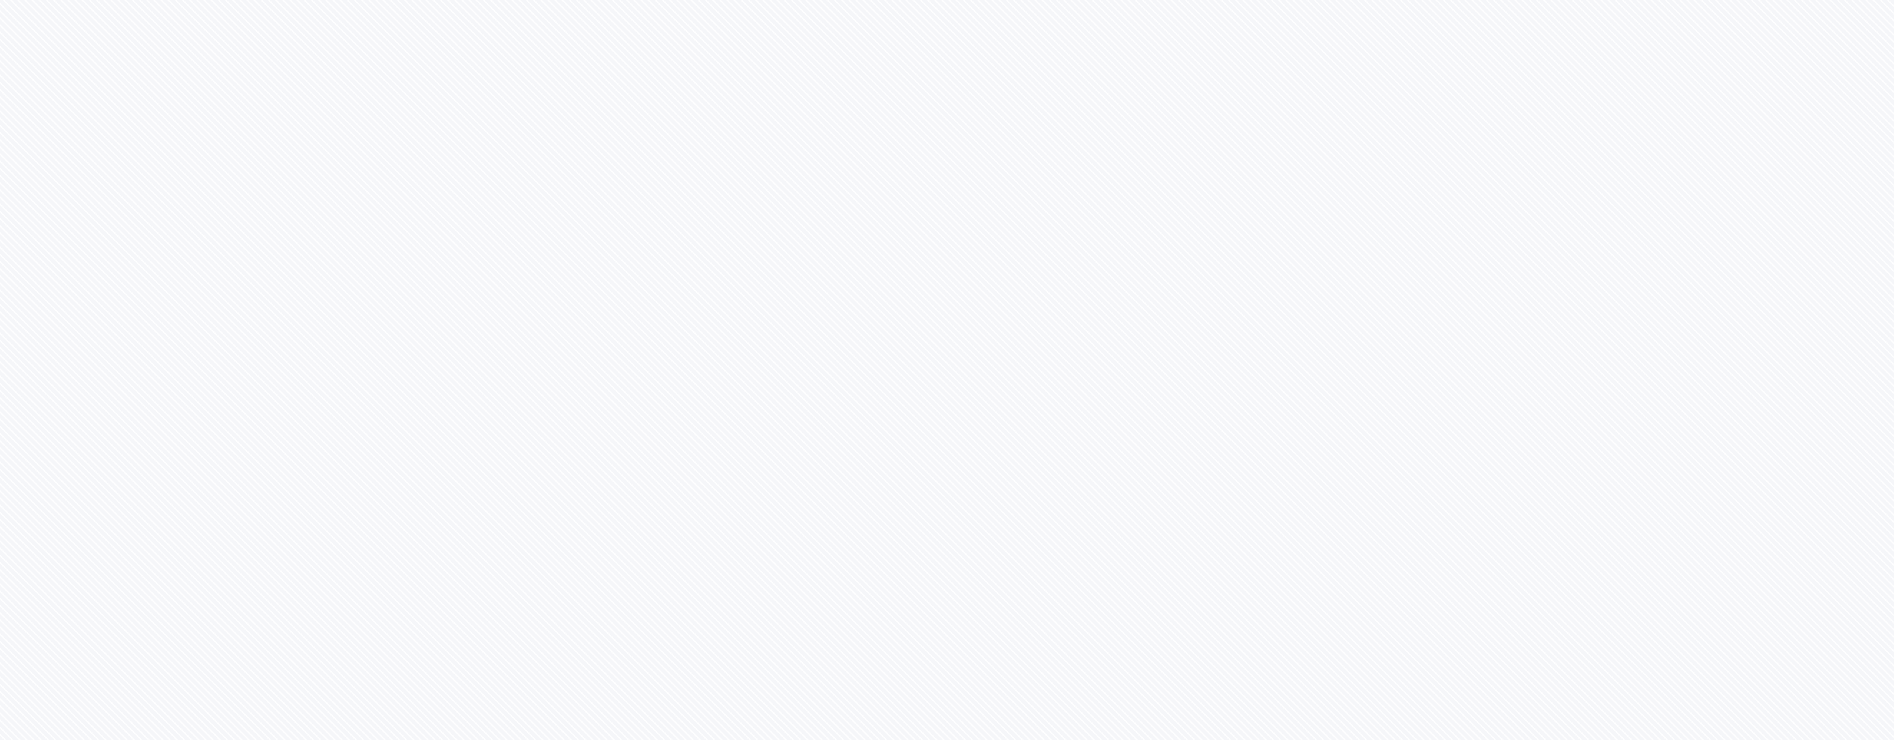
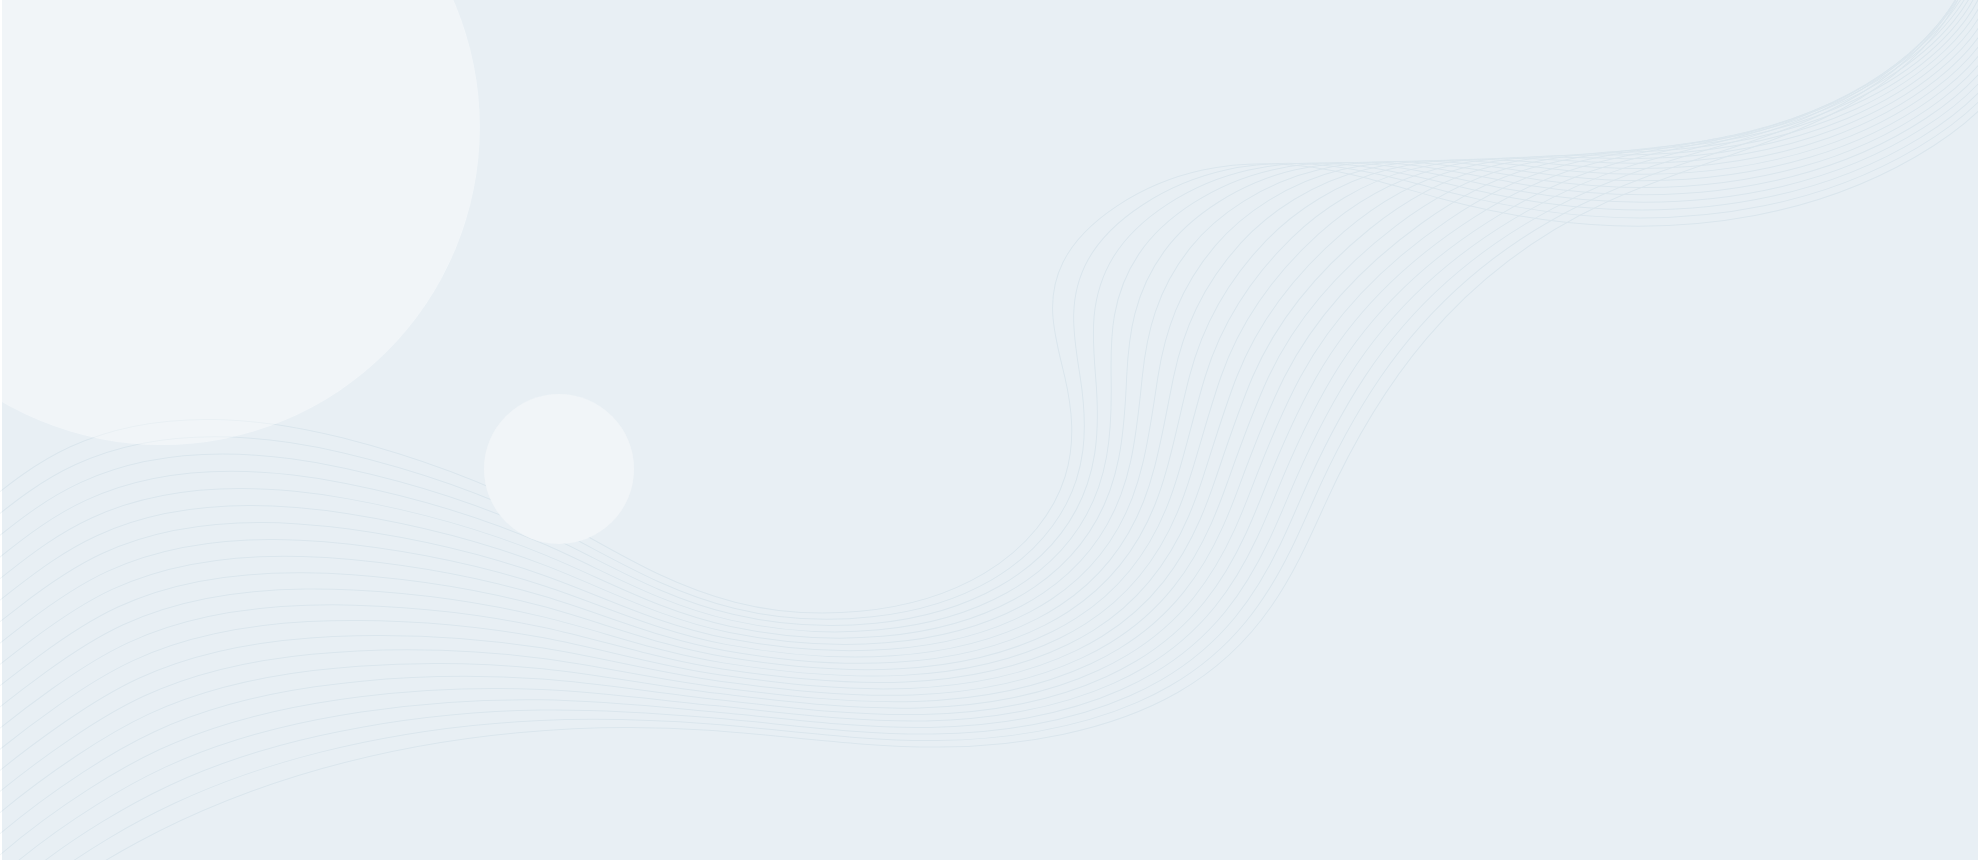
wow

diff --git a/src/components/HomeSections/HomeSections.js b/src/components/HomeSections/HomeSections.js
@@ -36,7 +36,7 @@ export const HomeSections = () => {
                     </div>
                 </div>
             </section>
-            <section className="section position-relative overflow-hidden pb-5">
+            <section className="section position-relative overflow-hidden pb-5 services">
                 <div className="container">
                     <div className="row">
                         <div className="col-12 shape-circle">
@@ -53,16 +53,16 @@ export const HomeSections = () => {
                         </div>
                     </div>
                     <div className="row my-4 w-100 mx-auto">
-                        <Service title="BLOCKCHAIN DEVELOPMENT" description="Blockchain development services are revolutionising the way people deal all around the world. With the support of secure, dependable, and high-quality blockchain technology development services, you can avoid third-party intrusion." image="./Assets/services_1.png" />
-                        <Service title="DIGITAL MARKETING" description="There are more leads. More sales are expected. Increased revenue. Eliteblue Technologies provides digital marketing services. We’ll assist your company in making the most significant impact, from traffic to income." image="./Assets/services_2.png" />
-                        <Service title="ECOMMERCE SOFTWARE DEVELOPMENT" description="ECommerce software development addresses the requirement for a digital presence from worldwide manufacturing, distribution, and retail organizations." image="./Assets/services_3.png" />
-                        <Service title="MOBILE APPLICATION DEVELOPMENT" description="Mobile Systems Custom Platform Back-End Executions Interface Apps" image="./Assets/services_4.png" />
-                        <Service title="Web Development" description="Web development on the front-end Web development on the backend WordPress Customization Development of a CMS" image="./Assets/services_5.png" />
-                        <Service title="Creative Branding & Design" description="Designing a brand identity and logo, as well as packaging, web and  mobile design, and layout and print design." image="./Assets/services_6.png" />
+                        <Service title="BLOCKCHAIN DEVELOPMENT" link="#" description="Blockchain development services are revolutionising the way people deal all around the world. With the support of secure, dependable, and high-quality blockchain technology development services, you can avoid third-party intrusion." image="./Assets/services_1.png" />
+                        <Service title="DIGITAL MARKETING" link="#" description="There are more leads. More sales are expected. Increased revenue. Eliteblue Technologies provides digital marketing services. We’ll assist your company in making the most significant impact, from traffic to income." image="./Assets/services_2.png" />
+                        <Service title="ECOMMERCE SOFTWARE DEVELOPMENT" link="#" description="ECommerce software development addresses the requirement for a digital presence from worldwide manufacturing, distribution, and retail organizations." image="./Assets/services_3.png" />
+                        <Service title="MOBILE APPLICATION DEVELOPMENT" link="#" description="Mobile Systems Custom Platform Back-End Executions Interface Apps" image="./Assets/services_4.png" />
+                        <Service title="Web Development" link="#" description="Web development on the front-end Web development on the backend WordPress Customization Development of a CMS" image="./Assets/services_5.png" />
+                        <Service title="Creative Branding & Design" link="#" description="Designing a brand identity and logo, as well as packaging, web and  mobile design, and layout and print design." image="./Assets/services_6.png" />
                     </div>
                 </div>
             </section>
-            <section className="section pt-0">
+            <section className="section pt-0 portfolio">
                 <div className="container">
                     <div className="row">
                         <div className="col-12">
@@ -120,12 +120,12 @@ export const HomeSections = () => {
                     <div className="row">
                         <div className="col-12">
                             <div class="head">
-                                <h4 class="heading-sm">Portfolio</h4>
-                                <h2 class="heading">RECENT WORK
+                                <h4 class="heading-sm">TECHNOLOGIES WE USE
+</h4>
+                                <h2 class="heading">Highlights of technologies we use
                                     <span class="dot">.</span>
                                 </h2>
-                                <p class="para">A wide selection of solutions is available, which are ideal for your project’s success. We mix digital craftsmanship with customer experiences and brand development.</p>
-                            </div>
+                             </div>
                         </div>
                     </div>
 

diff --git a/src/components/Services/Services.css b/src/components/Services/Services.css
@@ -20,20 +20,22 @@
 
 .ServicesImg {
     width: 380px;
+    z-index: 1;
+    position: relative;
 }
 
-.services-card {
+/* .services-card>.row {
     background: linear-gradient(var(--services_light), var(--services_dark));
     background-color: var(--white);
     margin-bottom: 30px;
     border-radius: 26px;
     transition: --services_light .3s, --services_dark .3s;
-}
+} */
 
-.services-card:hover {
+/* .services-card:hover {
     --services_light: #eff7ff;
     --services_dark: rgba(233, 233, 233, 0.3);
-}
+} */
 
 .services-card:nth-child(even) .row {
     flex-direction: row-reverse;
@@ -50,4 +52,89 @@
         --services_light: #d9edff;
         --services_dark: rgba(233, 233, 233, 0.3);
     }
+}
+
+.services-card>.row {
+    overflow: hidden;
+    position: relative;
+    border-radius: 14px;
+}
+
+.services-card>.row:before {
+    content: "";
+    position: absolute;
+    left: 0;
+    top: 0;
+    right: 0;
+    bottom: 0;
+    display: block;
+    background: linear-gradient(var(--services_light), var(--services_dark));
+    overflow: hidden;
+    box-shadow: 0px 0px 30px 0px rgb(0 0 0 / 4%);
+    transition: --services_light .3s, --services_dark .3s;
+    width: 100%;
+    height: 100%;
+    z-index: 0;
+}
+
+.services-card>.row:hover:before {
+    /* background: var(--dark);  */
+    --services_light: #c9e4ff;
+    --services_dark: rgba(233, 233, 233, 0.3);
+}
+
+
+.services-card .row:hover .bottom-curve {
+    transform: skewX(-45deg) scaleX(1);
+}
+
+.services-card .row .bottom-curve {
+    position: absolute;
+    right: -89px;
+    bottom: -10px;
+    width: 152px;
+    height: 152px;
+    background: #16539e87;
+    opacity: 0.6;
+    z-index: 0;
+    transform: skewX(0deg) scaleX(0);
+    transition: all 0.5s ease;
+}
+
+.services-card .row .link-box {
+    position: absolute;
+    right: 3px;
+    bottom: 14px;
+    width: 48px;
+    height: 36px;
+    z-index: 1;
+    transform: translateX(-48px);
+    transition: all .3s ease;
+    filter: invert(1);
+}
+
+.services-card>.row:hover .link-box {
+    width: 26px;
+    transform: translateX(-22px);
+    filter: invert(0);
+
+}
+
+
+.services-card>.row .link-box:hover {
+    width: 26px;
+    transform: translateX(-18px) scale(1.075);
+    filter: invert(0);
+
+}
+
+.services-card .row .link-box span img.angle {
+    width: 26px;
+}
+
+.services {
+    background: url('../Assets/bg-services.png') no-repeat top/cover;
+}
+.portfolio {
+    background: url('../Assets/portfolio-bg.png') no-repeat top/cover;
 }

diff --git a/src/components/Services/Service.js b/src/components/Services/Service.js
@@ -1,10 +1,15 @@
 import React from 'react';
 import './Services.css';
+import AngleRight from '../Assets/angleRight.png';
 
-export default function Service({ title, description, image }) {
+
+export default function Service({ title, description, image, link }) {
     return (
         <div className='col-12 text-center my-4 services-card'>
             <div className="row">
+                <div className="col-12">
+                    <div class="bottom-curve"></div>
+                </div>
                 <div className="col-md-6 col-12 my-auto">
                     <img src={image} alt="Services" className='ServicesImg' draggable="false" />
                 </div>
@@ -14,6 +19,10 @@ export default function Service({ title, description, image }) {
                         <p className="para">
                             {description}
                         </p>
+                        <div class="link-box"><a href={link}>
+                            <span class=""> <img src={AngleRight} alt="Angle" className='angle' /></span>
+                        </a>
+                        </div>
                     </div>
                 </div>
             </div>

diff --git a/src/App.css b/src/App.css
@@ -211,7 +211,7 @@ h6 {
 
 .bg-radial {
   position: relative;
-  background: #ffffff url(./components/Assets/pattern-bg.png) left top repeat;
+  background: #ffffff url(./components/Assets/pattern-bg.png) top/cover no-repeat;
 }
 
 section.section {
